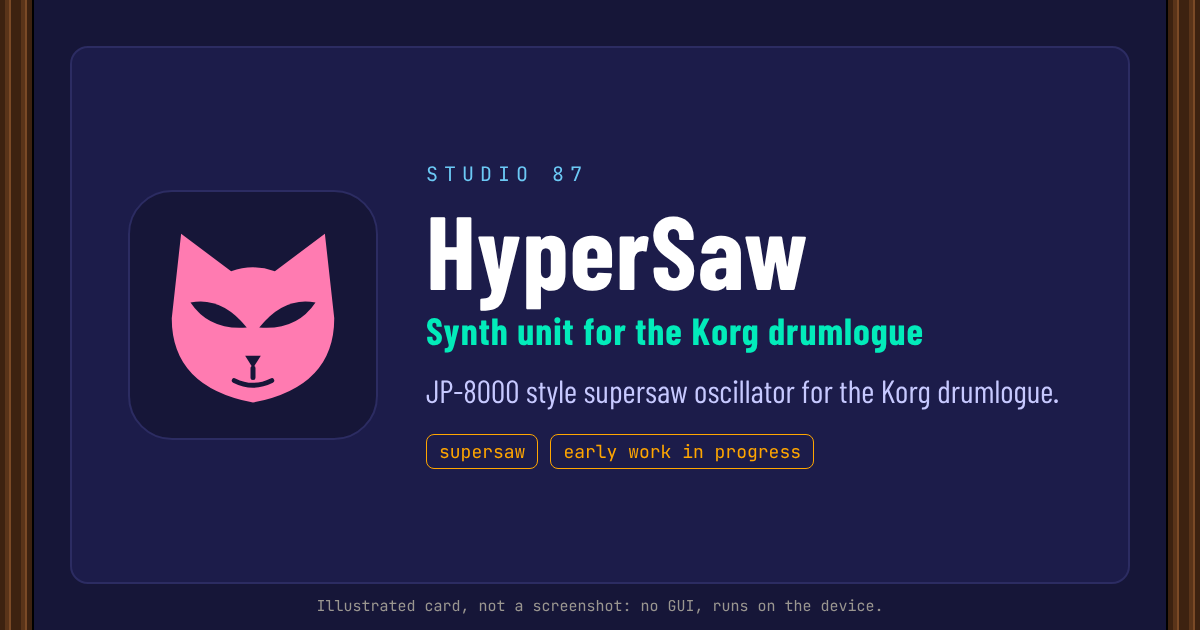
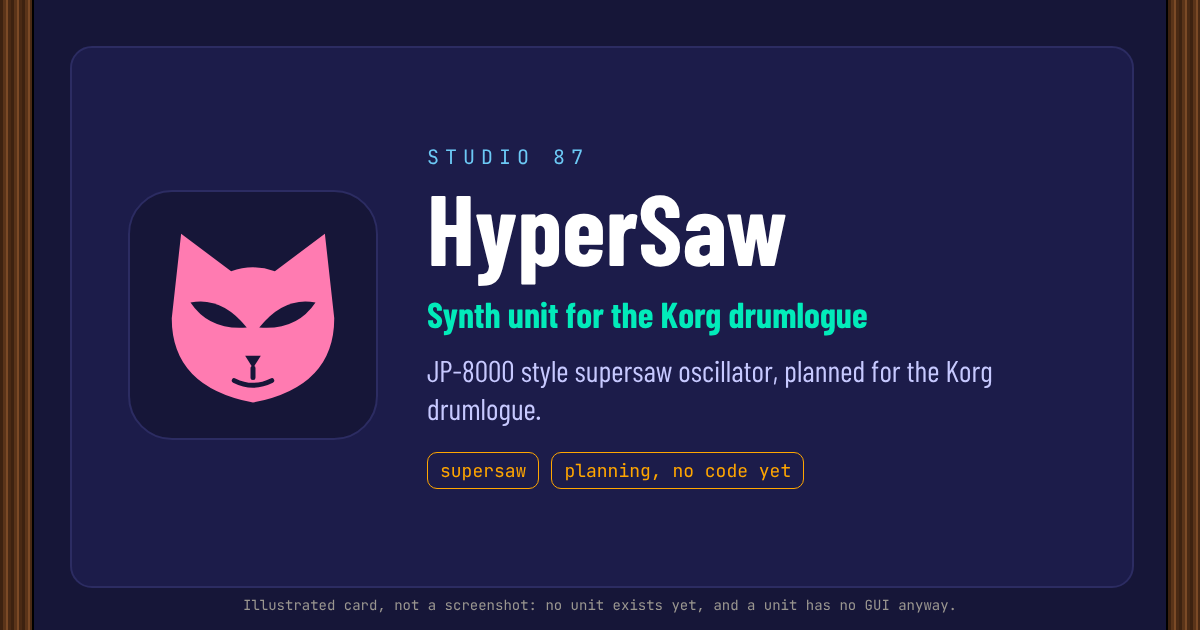
Docs: honest status, web page, README status

diff --git a/docs/index.html b/docs/index.html
@@ -1,0 +1,28 @@
+<!doctype html>
+<html lang="en"><head><meta charset="utf-8"><meta name="viewport" content="width=device-width,initial-scale=1">
+<title>HyperSaw for drumlogue</title>
+<style>
+:root{--bg:#161638;--panel:#1c1c4a;--line:#33403f;--text:#e8e6e1;--muted:#9a9690;--teal:#02EBBA;--pink:#FF1383;--amber:#FFA600}
+*{box-sizing:border-box}
+body{margin:0;background:var(--bg);color:var(--text);font:16px/1.55 system-ui,Arial,sans-serif}
+main{max-width:860px;margin:0 auto;padding:28px 16px 48px}
+h1{margin:0 0 4px;font-size:34px} h2{color:var(--teal);font-size:20px;margin:28px 0 8px}
+a{color:var(--pink)} .muted{color:var(--muted)}
+img.shot{width:100%;height:auto;border:1px solid var(--line);border-radius:8px;display:block}
+.cap{color:var(--muted);font-size:13px;margin-top:6px}
+.box{background:var(--panel);border:1px solid var(--line);border-radius:8px;padding:12px 16px;margin:12px 0}
+.box b{color:var(--amber)} li{margin:3px 0}
+code{background:#0e0e26;padding:1px 5px;border-radius:4px}
+.links a{display:inline-block;margin:4px 12px 4px 0}
+</style></head><body><main>
+<h1>HyperSaw for drumlogue</h1>
+<p class="muted">Korg drumlogue synth unit, planned · Studio 87</p>
+<p>A JP-8000 style supersaw oscillator for the Korg drumlogue.</p>
+<img class="shot" src="screenshot.png" alt="Illustrated card for HyperSaw for drumlogue">
+<div class="cap">Illustrated card, not a screenshot: no unit exists yet, and a unit has no GUI anyway.</div>
+<div class="box"><b>Status: planning, no code yet</b><p>This repo has no source, no unit file and nothing to install. There is nothing to test on a drumlogue yet.</p></div>
+<h2>What exists today</h2><ul><li>README, ROADMAP.md, LICENSE (MIT), icon and the illustrated card above.</li></ul>
+<h2>What does not exist yet</h2><ul><li>Source code, build files and a unit file (.drmlgunit).</li><li>A parameter layout for the drumlogue.</li><li>An install guide: it will be written from the unit source once there is a unit.</li></ul>
+<h2>Roadmap</h2><p class="muted">Copied from ROADMAP.md in the repo.</p><ul><li>Port the HyperSawX DSP from the minilogue xd unit</li><li>Build with the Korg logue SDK</li><li>Parameter layout for the drumlogue</li></ul>
+<div class="links"><h2>Links</h2><a href="https://github.com/SpeakingColors/hypersaw-drumlogue">Source on GitHub</a><a href="https://github.com/SpeakingColors/hypersaw-drumlogue/blob/main/ROADMAP.md">Roadmap</a><a href="https://github.com/SpeakingColors/hypersaw-xd">HyperSaw for minilogue xd (exists)</a><a href="https://ko-fi.com/studio87">Support Studio 87 on Ko-fi</a></div>
+<p class="cap">MIT. Files from the Korg logue SDK keep their own BSD-3-Clause license. Not affiliated with or endorsed by any hardware maker named here. All trademarks belong to their owners.</p></main></body></html>

diff --git a/README.md b/README.md
@@ -12,7 +12,7 @@
 JP-8000 style supersaw oscillator for the Korg drumlogue.
 
 ## Status
-Early work in progress.
+Planning, no code yet. This repo has no source and no unit file, so there is nothing to install or test. See the [web page](docs/index.html) and the [roadmap](ROADMAP.md).
 
 <p align="center">
   <a href="https://ko-fi.com/studio87"><img src="https://img.shields.io/badge/Support_Studio_87-on_Ko--fi-FF5E5B?style=for-the-badge&logo=kofi&logoColor=white" alt="Support Studio 87 on Ko-fi"></a>
